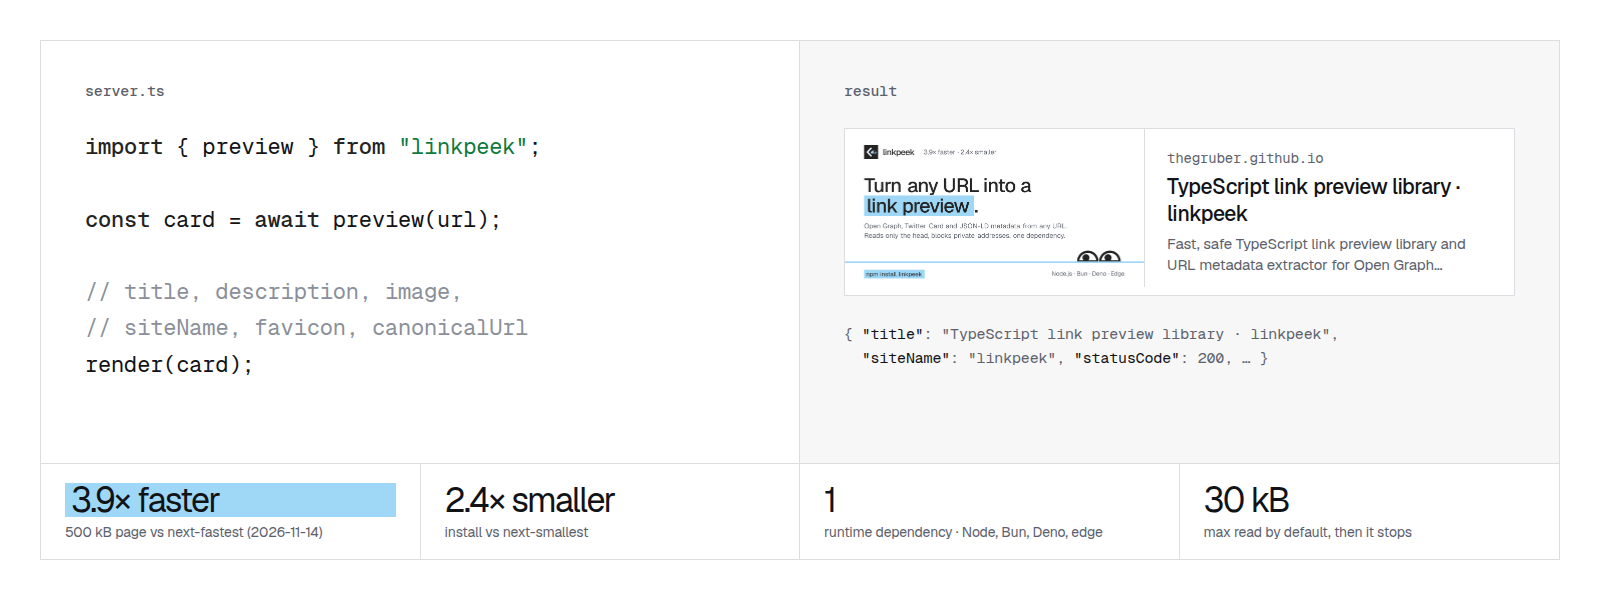
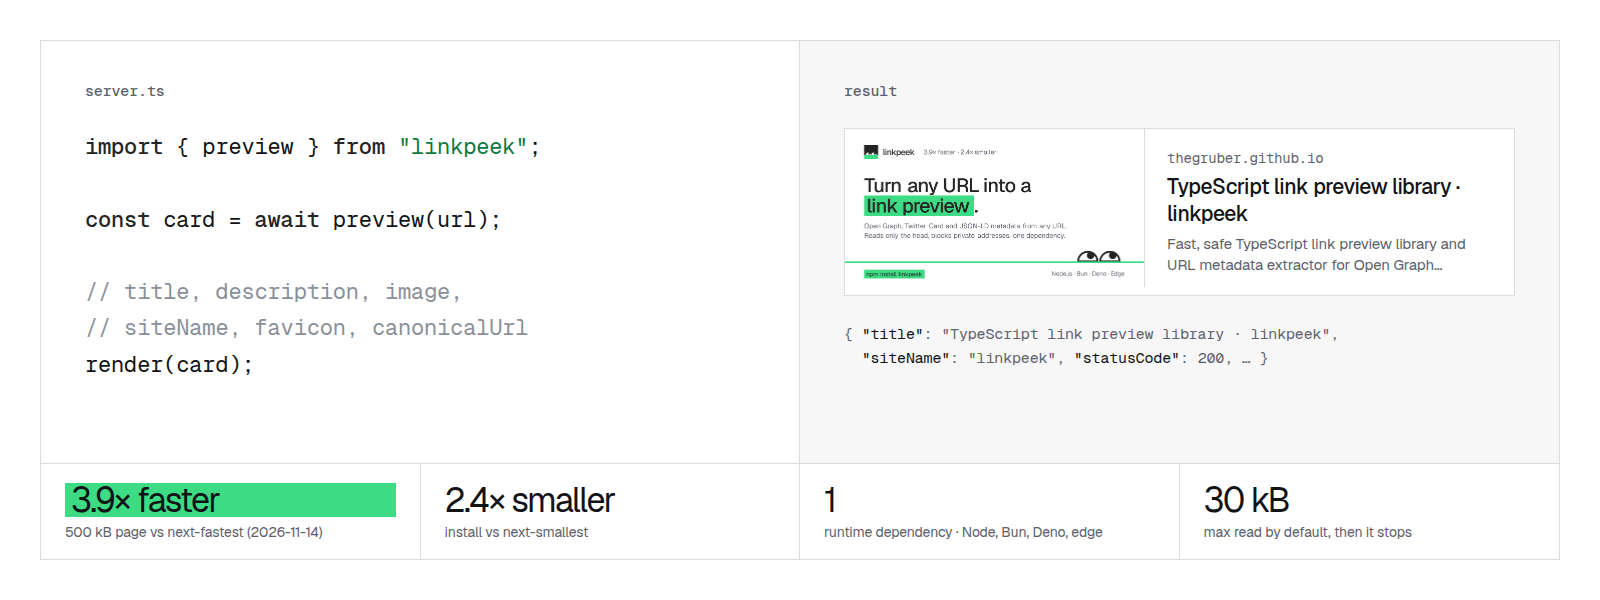
feat(brand): two eyes peeking over a mint band
Back to the two-eye mark, which reads as eyes at every size: two white
eyes peek over a mint band (the <head>) on a charcoal square. The accent
moves from ice blue to mint (#3ddc84, pale #d9f7e6 blocks). The dither
art, the stream diagram and the social cards use the same two eyes.

diff --git a/website/components/dither.tsx b/website/components/dither.tsx
@@ -14,7 +14,7 @@ const SHAPE = "#d9d9d9";
 export function Dither({
 	className,
 	/** Mark position and scale relative to the cell height. */
-	place = { x: 0.08, y: -0.22, scale: 1.55 },
+	place = { x: -0.05, y: -0.45, scale: 1.6 },
 	showMark = true,
 	tone = 0,
 }: {
@@ -34,8 +34,7 @@ export function Dither({
 		const finePointer = matchMedia(
 			"(hover: hover) and (pointer: fine)",
 		).matches;
-		const bracket = new Path2D(mark.bracket);
-		const eye = new Path2D(mark.eye);
+		const eyes = new Path2D(mark.eyes);
 		const small = document.createElement("canvas");
 		const smallContext = small.getContext("2d");
 		if (!smallContext) return;
@@ -104,26 +103,17 @@ export function Dither({
 				context.save();
 				context.translate(width * place.x, height * place.y);
 				context.scale(s, s);
-				context.strokeStyle = SHAPE;
 				context.fillStyle = SHAPE;
-				context.lineWidth = 6.5;
-				context.lineCap = "square";
-				context.lineJoin = "miter";
-				context.stroke(bracket);
-				context.fill(eye);
-				// The pupil, clipped to the eye, looking toward the pointer.
+				context.fill(eyes);
+				// Pupils, clipped to the eyes, looking toward the pointer.
 				context.save();
-				context.clip(eye);
+				context.clip(eyes);
 				context.fillStyle = `rgb(${INK.join(",")})`;
-				context.beginPath();
-				context.arc(
-					mark.pupil.cx + pupil.x,
-					mark.pupil.cy + pupil.y,
-					mark.pupil.r,
-					0,
-					Math.PI * 2,
-				);
-				context.fill();
+				for (const p of mark.pupils) {
+					context.beginPath();
+					context.arc(p.cx + pupil.x, p.cy + pupil.y, p.r, 0, Math.PI * 2);
+					context.fill();
+				}
 				context.restore();
 				context.restore();
 			}
@@ -148,14 +138,14 @@ export function Dither({
 			pointer.y = event.clientY - box.top;
 			// Eye center in canvas space.
 			const s = (height * place.scale) / 64;
-			const ex = width * place.x + 43 * s;
-			const ey = height * place.y + 31 * s;
+			const ex = width * place.x + 32 * s;
+			const ey = height * place.y + 40 * s;
 			const dx = pointer.x - ex;
 			const dy = pointer.y - ey;
 			const distance = Math.hypot(dx, dy) || 1;
 			const pull = Math.min(1, distance / 400);
 			target.x = (dx / distance) * 5.5 * pull;
-			target.y = Math.min(2.5, (dy / distance) * 5.5 * pull);
+			target.y = Math.min(1.5, (dy / distance) * 5.5 * pull);
 		};
 
 		resize();

diff --git a/website/app/og/[...slug]/route.tsx b/website/app/og/[...slug]/route.tsx
@@ -50,15 +50,13 @@ export async function GET(
 			<div style={{ display: "flex", alignItems: "center", gap: 18 }}>
 				<svg width="56" height="56" viewBox="0 0 64 64" aria-hidden="true">
 					<rect width="64" height="64" fill="#232323" />
+					<rect y="45" width="64" height="19" fill="#3ddc84" />
 					<path
-						d="M31 15 15 32l16 17"
-						fill="none"
-						stroke="#ffffff"
-						strokeWidth="6.5"
-						strokeLinecap="square"
+						d="M8 45a11.5 11.5 0 0 1 23 0zM33 45a11.5 11.5 0 0 1 23 0z"
+						fill="#ffffff"
 					/>
-					<path d="M30 38a13 13 0 0 1 26 0z" fill="#9fd8f7" />
-					<circle cx="47" cy="31" r="4.6" fill="#232323" />
+					<circle cx="23.5" cy="38.5" r="4.6" fill="#232323" />
+					<circle cx="48.5" cy="38.5" r="4.6" fill="#232323" />
 				</svg>
 				<span
 					style={{ fontSize: 34, fontWeight: 500, letterSpacing: "-0.035em" }}
@@ -92,7 +90,7 @@ export async function GET(
 					) : (
 						<span style={{ display: "flex", flexWrap: "wrap" }}>
 							Turn any URL into a&nbsp;
-							<span style={{ background: "#9fd8f7", padding: "0 10px" }}>
+							<span style={{ background: "#3ddc84", padding: "0 10px" }}>
 								link preview
 							</span>
 							.
@@ -118,8 +116,14 @@ export async function GET(
 				aria-hidden="true"
 				style={{ position: "absolute", right: 96, bottom: 102 }}
 			>
-				<path d="M11 24a13 13 0 0 1 26 0z" fill="#9fd8f7" />
-				<circle cx="28" cy="17" r="4.6" fill="#232323" />
+				<path
+					d="M1.5 24a10.5 10.5 0 0 1 21 0zM25.5 24a10.5 10.5 0 0 1 21 0z"
+					fill="#ffffff"
+					stroke="#232323"
+					strokeWidth="2"
+				/>
+				<circle cx="15" cy="17.5" r="4" fill="#232323" />
+				<circle cx="39" cy="17.5" r="4" fill="#232323" />
 			</svg>
 			<div
 				style={{
@@ -128,7 +132,7 @@ export async function GET(
 					right: 0,
 					bottom: 96,
 					height: 6,
-					background: "#9fd8f7",
+					background: "#3ddc84",
 				}}
 			/>
 			<div
@@ -146,7 +150,7 @@ export async function GET(
 				<span
 					style={{
 						color: "#232323",
-						background: "#9fd8f7",
+						background: "#3ddc84",
 						padding: "2px 8px",
 					}}
 				>

diff --git a/website/app/global.css b/website/app/global.css
@@ -8,8 +8,8 @@
 /*
  * linkpeek, light only, like a printed spec sheet: white paper, charcoal
  * ink, 1px charcoal rules that cut the page into rectangles, light grey for
- * large shapes, and one ice blue: pale for blocks, clearer for what linkpeek
- * reads (the "link" colour of the web, kept quiet). Ordered-dither art is the
+ * large shapes, and one mint: pale for blocks, clear for what linkpeek reads
+ * (the <head>, the band the eyes in the mark peek over). Ordered-dither art is the
  * only texture. Square corners everywhere.
  */
 @theme {
@@ -37,22 +37,22 @@
 	--color-fd-primary-foreground: #ffffff;
 	--color-fd-secondary: #f2f2f1;
 	--color-fd-secondary-foreground: #232323;
-	--color-fd-accent: #e3f2fb;
+	--color-fd-accent: #d9f7e6;
 	--color-fd-accent-foreground: #232323;
 	--color-fd-ring: #232323;
 
 	--color-ink: #232323;
 	--color-paper: #ffffff;
 	--color-shape: #d9d9d9;
-	--color-block: #e3f2fb;
-	--color-mark: #9fd8f7;
+	--color-block: #d9f7e6;
+	--color-mark: #3ddc84;
 	--color-mark-ink: #232323;
 	--color-rule: #dcdcdc;
 	--color-bar: #d9d9d9;
 	--color-signal: #232323;
 	--color-signal-ink: #ffffff;
 	--color-signal-text: #232323;
-	--color-signal-wash: rgb(159 216 247 / 0.5);
+	--color-signal-wash: rgb(61 220 132 / 0.35);
 }
 
 html {
@@ -199,7 +199,7 @@ body {
 	}
 }
 
-/* Hero demo: an ice line fills until the next example. */
+/* Hero demo: a mint line fills until the next example. */
 .rotate-progress {
 	width: 0;
 }

diff --git a/website/components/logo.tsx b/website/components/logo.tsx
@@ -1,26 +1,24 @@
 import mark from "@/lib/mark.json";
 
-// The linkpeek mark: an HTML angle bracket and an eye peeking over a hidden
-// line, read as "<peek". The same geometry drives the giant dithered art.
+// The linkpeek mark: two eyes peeking over an edge. The mint band is the
+// page's <head>, the only part linkpeek reads.
 export function Mark({ className = "size-6" }: { className?: string }) {
 	return (
 		<svg viewBox="0 0 64 64" aria-hidden="true" className={className}>
 			<rect width="64" height="64" fill="#232323" />
-			<path
-				d={mark.bracket}
-				fill="none"
-				stroke="#ffffff"
-				strokeWidth="6.5"
-				strokeLinecap="square"
-			/>
-			<path d={mark.eye} fill="#9fd8f7" />
-			<circle
-				className="peek-pupils"
-				cx={mark.pupil.cx}
-				cy={mark.pupil.cy}
-				r={mark.pupil.r}
-				fill="#232323"
-			/>
+			<rect y={mark.band} width="64" height={64 - mark.band} fill="#3ddc84" />
+			<path d={mark.eyes} fill="#ffffff" />
+			<g className="peek-pupils">
+				{mark.pupils.map((pupil) => (
+					<circle
+						key={pupil.cx}
+						cx={pupil.cx}
+						cy={pupil.cy}
+						r={pupil.r}
+						fill="#232323"
+					/>
+				))}
+			</g>
 		</svg>
 	);
 }

diff --git a/website/components/gaze.tsx b/website/components/gaze.tsx
@@ -88,13 +88,13 @@ export function useGaze(
 }
 
 /**
- * The brand's eye peeking over whatever edge it sits on. Place them so
+ * The brand's eyes peeking over whatever edge they sit on. Place them so
  * their flat bottom touches the edge.
  */
 export function PeekingEyes({
 	className,
 	style,
-	sclera = "#9fd8f7",
+	sclera = "#ffffff",
 	pupil = "#0b0b0c",
 	outline,
 }: {
@@ -119,13 +119,14 @@ export function PeekingEyes({
 			style={style}
 		>
 			<path
-				d="M11 24a13 13 0 0 1 26 0z"
+				d="M1.5 24a10.5 10.5 0 0 1 21 0zM25.5 24a10.5 10.5 0 0 1 21 0z"
 				fill={sclera}
 				stroke={outline}
-				strokeWidth={outline ? 1.5 : 0}
+				strokeWidth={outline ? 2 : 0}
 			/>
 			<motion.g style={{ x, y }}>
-				<circle cx="27.5" cy="17.5" r="4.6" fill={pupil} />
+				<circle cx="15" cy="17.5" r="4" fill={pupil} />
+				<circle cx="39" cy="17.5" r="4" fill={pupil} />
 			</motion.g>
 		</svg>
 	);

diff --git a/website/components/stream-diagram.tsx b/website/components/stream-diagram.tsx
@@ -34,7 +34,7 @@ export function StreamDiagram({ page }: { page: ShowcaseCard }) {
 						aria-hidden="true"
 					/>
 					<PeekingEyes
-						outline="var(--color-fd-foreground)"
+						outline="var(--color-ink)"
 						className="absolute bottom-full w-14 -translate-x-1/2 translate-y-[1px]"
 						style={{ left: width }}
 					/>

diff --git a/AGENTS.md b/AGENTS.md
@@ -29,8 +29,8 @@
 - `npm run build --prefix website` also runs `scripts/check-site.mjs` (one H1, canonical, social tags, JSON-LD, Markdown twins, links, sitemap). Keep it passing.
 
 ## Brand
-- The mark is an HTML angle bracket and an eye peeking over a hidden line ("<peek"), a white bracket and an ice-blue `#9fd8f7` eye on a charcoal `#232323` square. Geometry lives in `website/lib/mark.json` and drives the logo, favicon and the giant dithered art. Brand files are in `assets/brand/`.
-- Light only, like a printed spec sheet (inspired by aspensearch.com, not copied): white paper, charcoal ink `#232323`, 1px charcoal rules cutting the page into rectangles, light grey `#d9d9d9` for big shapes, pale ice `#e3f2fb` blocks and ice blue `#9fd8f7` as the only colour (it marks what linkpeek reads). Ordered-dither canvas art is the only texture. Geist for text, Geist Mono for small uppercase labels, code and data. Square corners.
+- The mark is two white eyes peeking over a mint `#3ddc84` band (the `<head>`) on a charcoal `#232323` square. Geometry lives in `website/lib/mark.json` and drives the logo, favicon and the giant dithered art. Brand files are in `assets/brand/`.
+- Light only, like a printed spec sheet (inspired by aspensearch.com, not copied): white paper, charcoal ink `#232323`, 1px charcoal rules cutting the page into rectangles, light grey `#d9d9d9` for big shapes, pale mint `#d9f7e6` blocks and mint `#3ddc84` as the only colour (it marks what linkpeek reads). Ordered-dither canvas art is the only texture. Geist for text, Geist Mono for small uppercase labels, code and data. Square corners.
 
 ## Demo preview endpoint
 - `demo-api/` is the Vercel project `gubastudio/linkpeek-playground` (`https://linkpeek-playground.vercel.app/api/preview`), used by the homepage's "try any URL" demo. It deploys from Git with root directory `demo-api` (production from `main`); builds are skipped when the last commit does not touch `demo-api/`.
